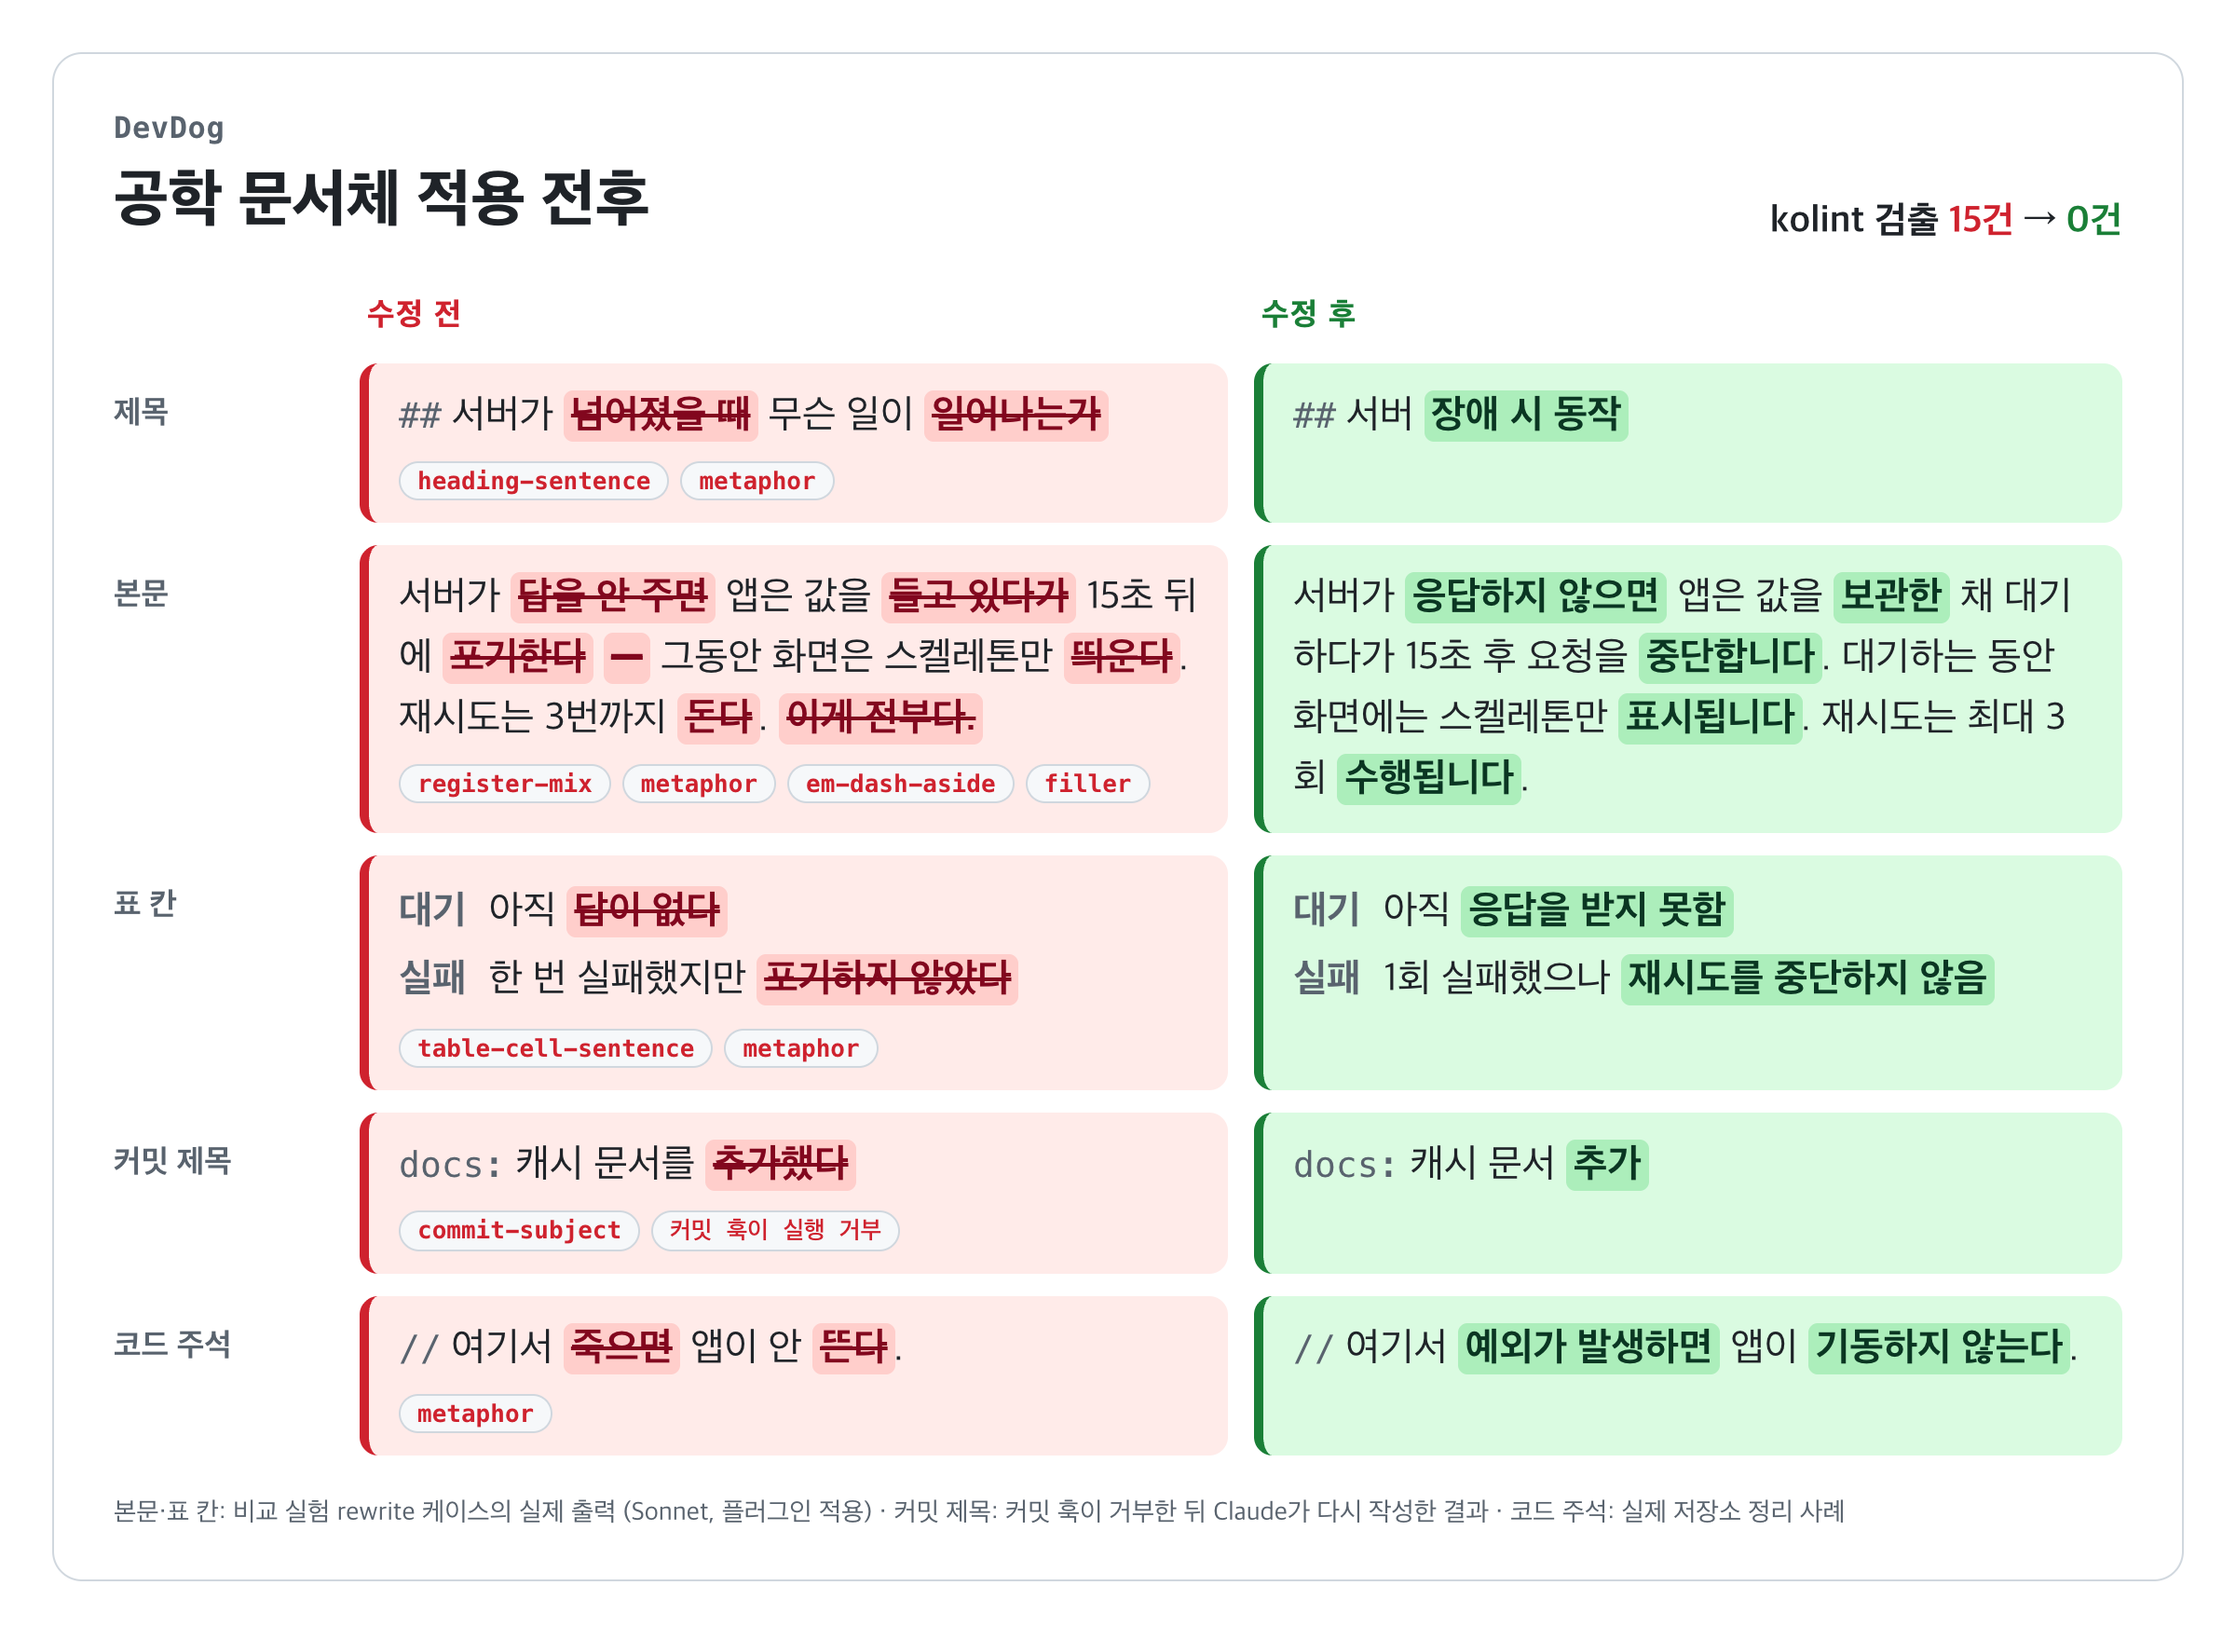
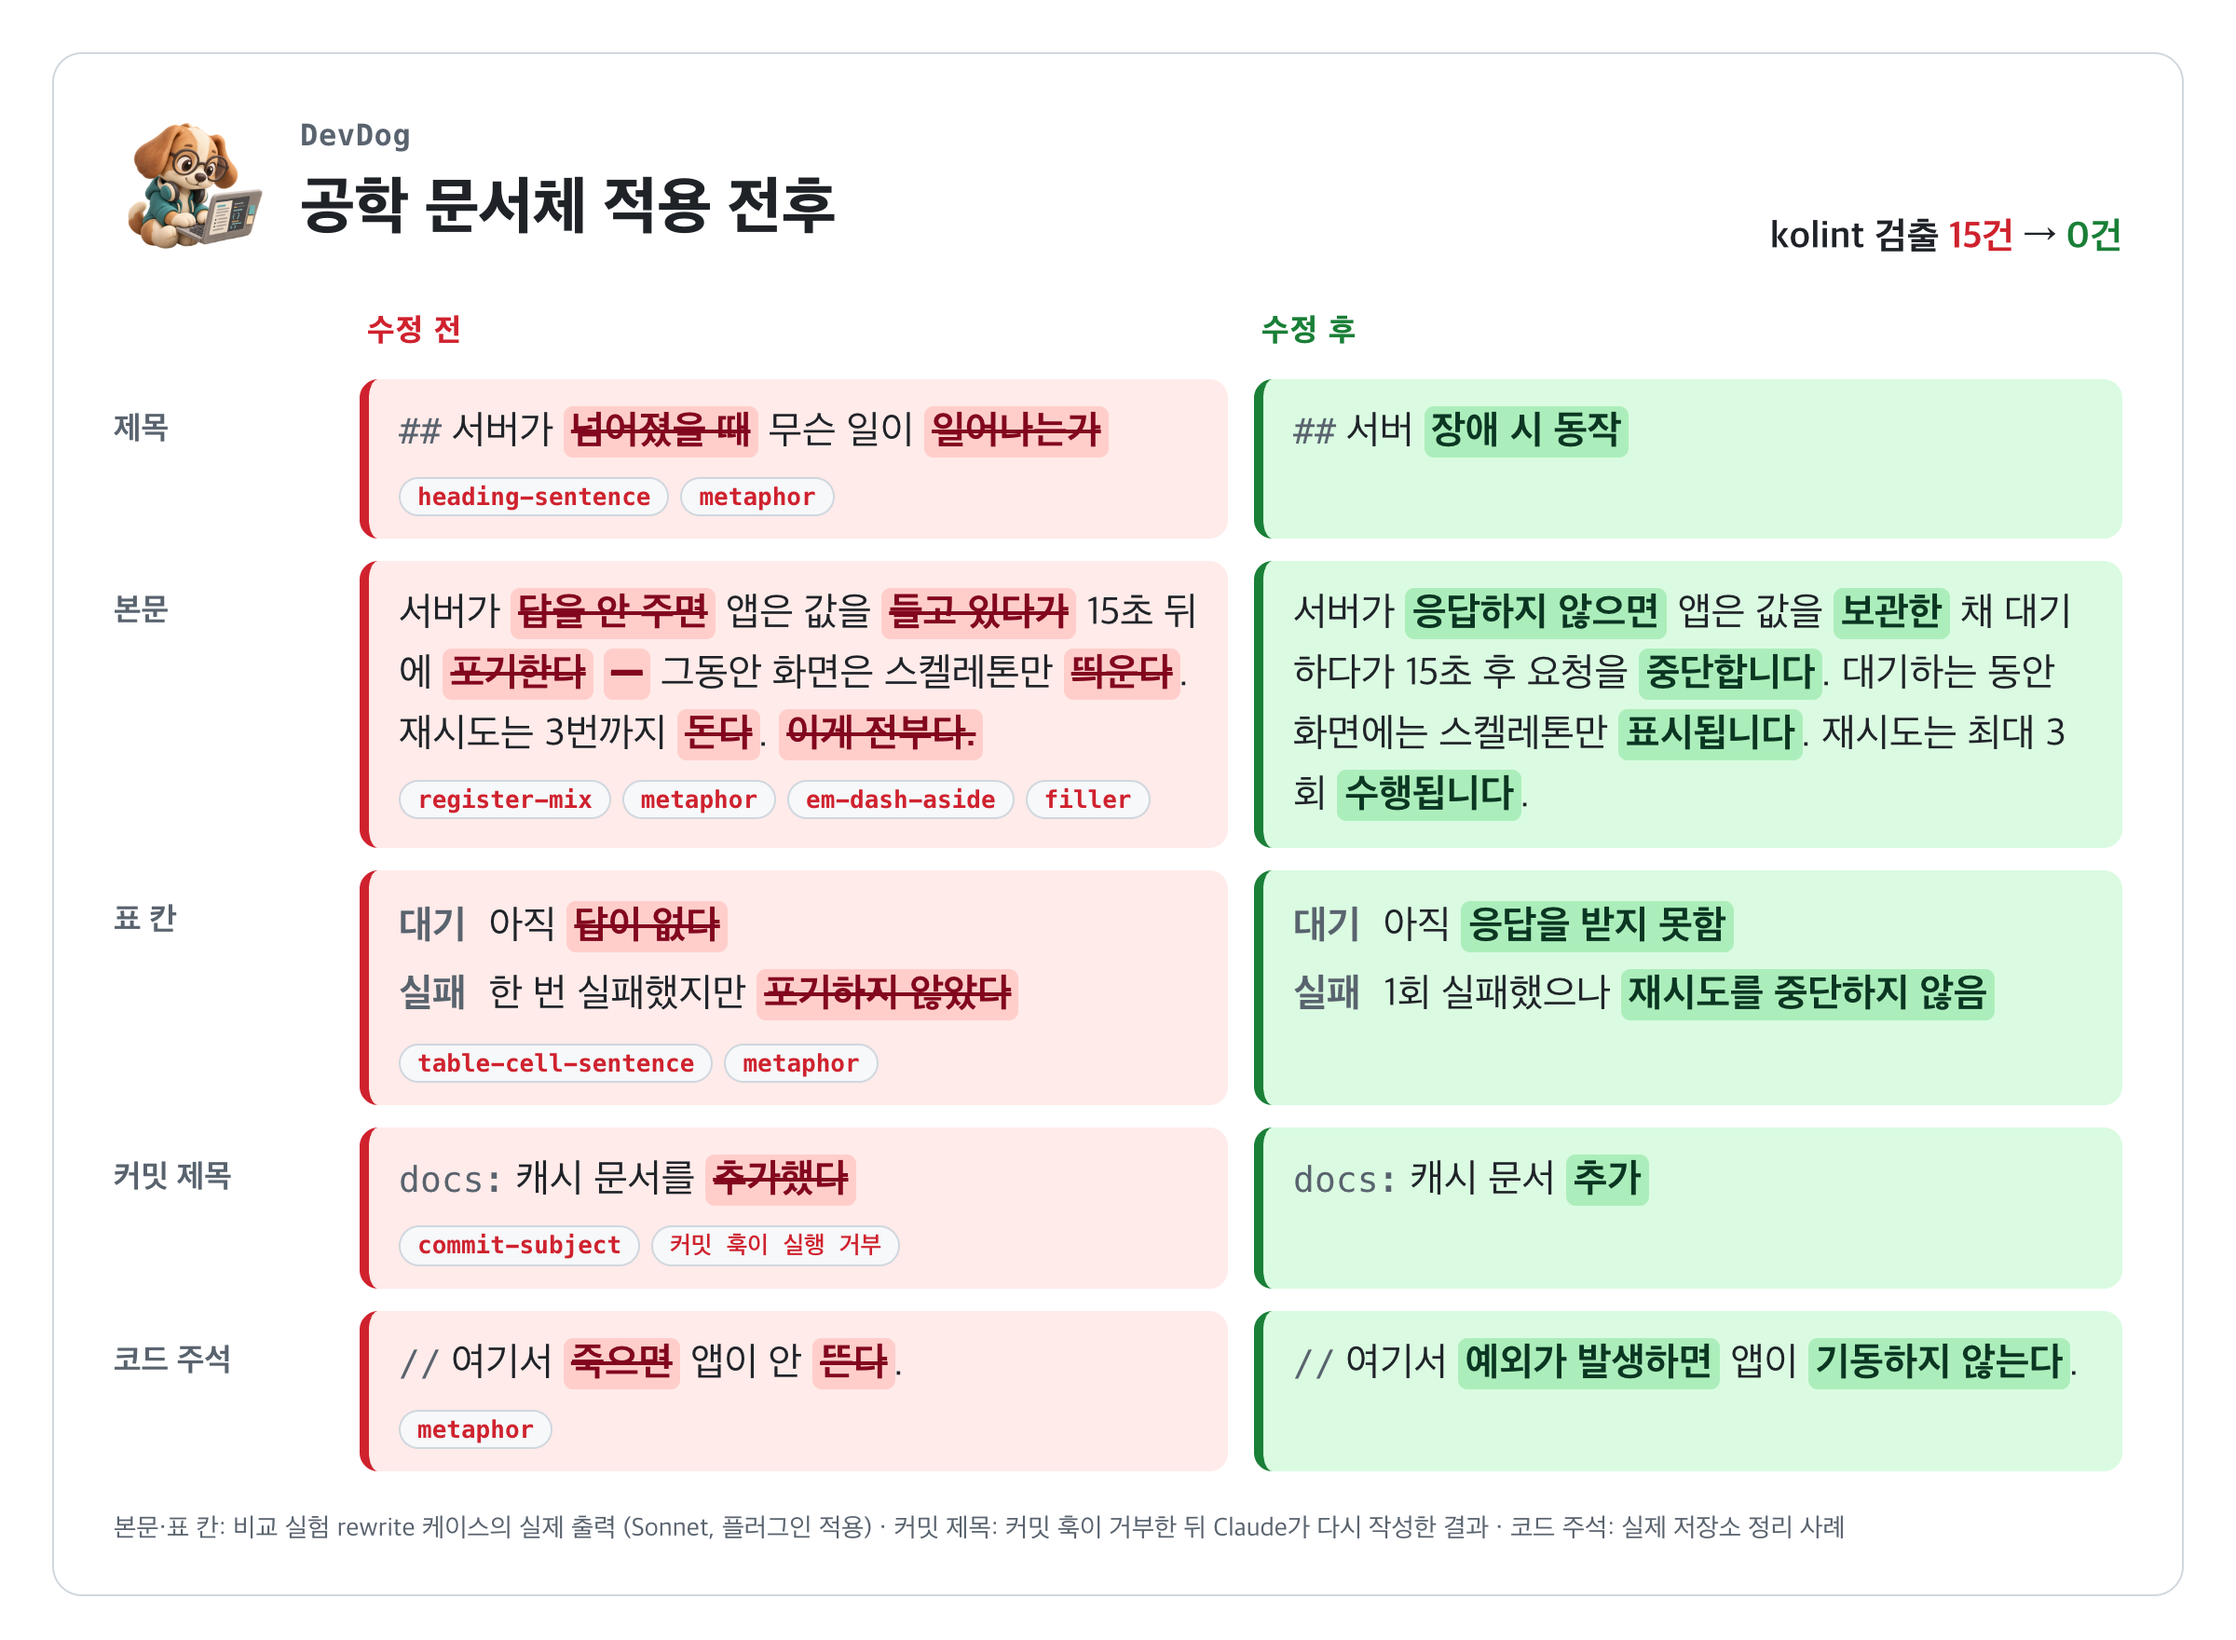
docs(readme): DevDog 마스코트 이미지 추가
README 상단 가운데에 마스코트와 제목을 배치하고, 적용 전후 비교 이미지 머리말에도 마스코트를 넣는다. 원본 1254px 이미지는 512px로 축소해 docs/assets/mascot.png로 저장한다.

diff --git a/docs/assets/before-after.html b/docs/assets/before-after.html
@@ -32,6 +32,8 @@ README 상단 대비 이미지의 원본. 수정 후 다음 명령으로 PNG를 
   .card { background: var(--card); border: 1px solid var(--line); border-radius: 16px; padding: 30px 32px 24px; }
   header { display: flex; align-items: flex-end; justify-content: space-between; margin-bottom: 22px; }
   .brand { font: 600 16px "SF Mono", Menlo, monospace; color: var(--muted); letter-spacing: .02em; }
+  .title { display: flex; align-items: center; gap: 16px; }
+  .title img { width: 84px; height: 84px; }
   h1 { font-size: 34px; font-weight: 800; letter-spacing: -.01em; margin-top: 4px; }
   .score { font-size: 20px; font-weight: 700; white-space: nowrap; }
   .score .bad { color: var(--bad-edge); } .score .good { color: var(--good-edge); }
@@ -60,9 +62,12 @@ README 상단 대비 이미지의 원본. 수정 후 다음 명령으로 PNG를 
 <script>if (location.search.includes('theme=dark')) document.documentElement.className = 'dark';</script>
 <div class="card">
   <header>
-    <div>
-      <div class="brand">DevDog</div>
-      <h1>공학 문서체 적용 전후</h1>
+    <div class="title">
+      <img src="mascot.png" alt="">
+      <div>
+        <div class="brand">DevDog</div>
+        <h1>공학 문서체 적용 전후</h1>
+      </div>
     </div>
     <div class="score">kolint 검출 <span class="bad">15건</span> → <span class="good">0건</span></div>
   </header>

diff --git a/README.md b/README.md
@@ -1,6 +1,10 @@
-# DevDog
+<p align="center">
+  <img src="docs/assets/mascot.png" width="220" alt="DevDog 마스코트. 안경과 헤드폰을 착용하고 노트북으로 코드를 작성하는 강아지">
+</p>
 
-개발팀 한국어 공학 문서체 플러그인입니다. 플러그인 식별자는 `devdog`입니다.
+<h1 align="center">DevDog</h1>
+
+<p align="center">개발팀 한국어 공학 문서체 Claude Code 플러그인 · 식별자 <code>devdog</code></p>
 
 ## 목차
 

diff --git a/CHANGELOG.md b/CHANGELOG.md
@@ -8,6 +8,7 @@
 - 설정 파일 이름 변경: `.ko-tech-writing.json` → `.devdog.json`
 - 저장소 주소 변경: `taehun2123/ko-tech-writing` → `taehun2123/devdog`
 - 설치 명령 변경: `claude plugin marketplace add taehun2123/devdog`, `claude plugin install devdog@devdog`
+- 마스코트 이미지 추가: README 상단과 적용 전후 비교 이미지에 표시
 
 ## 0.1.0 (2026-09-24)
 
